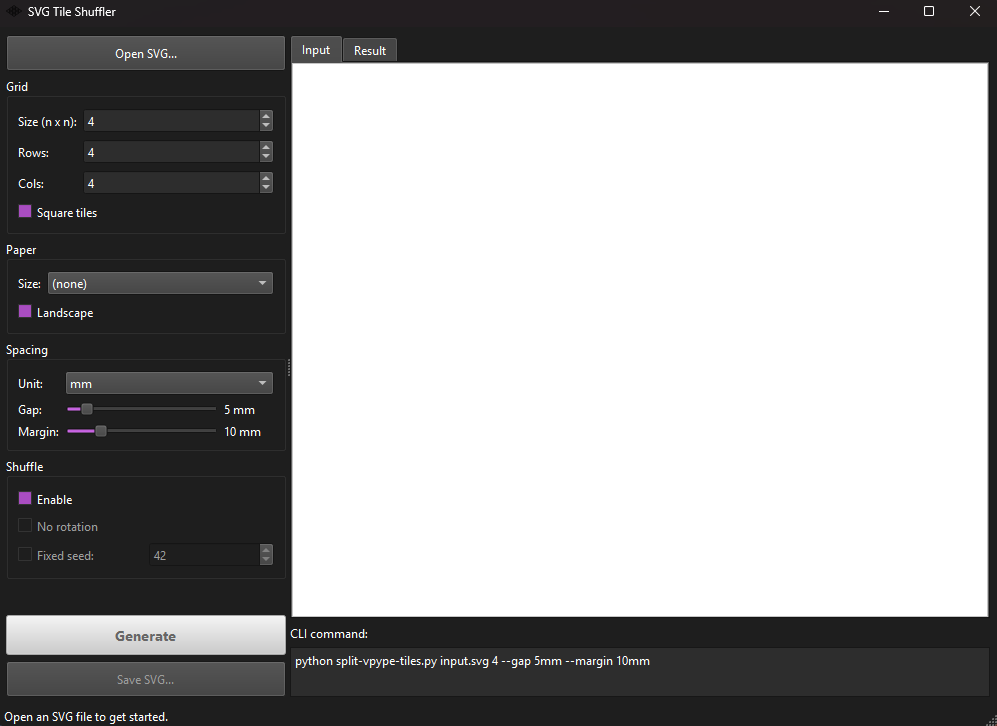
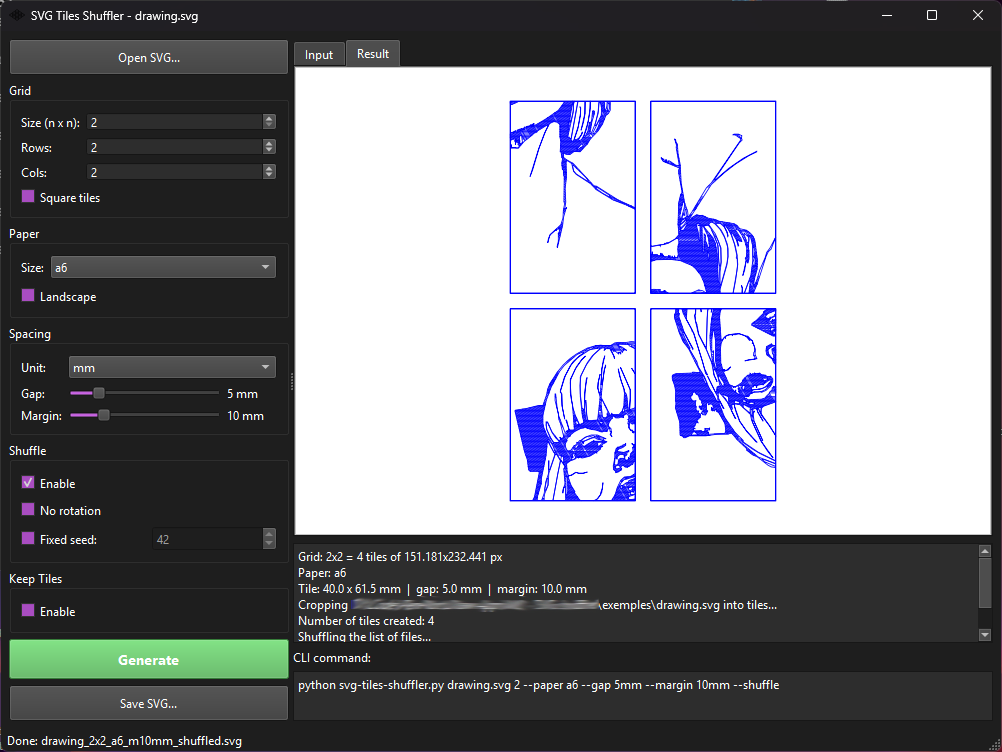
[CHG] Fix typo in application title and update screenshot

diff --git a/UI_app.py b/UI_app.py
@@ -1,4 +1,4 @@
-"""SVG Tile Shuffler - PySide6 Desktop App."""
+"""SVG Tiles Shuffler - PySide6 Desktop App."""
 
 import sys
 import subprocess
@@ -109,7 +109,7 @@ class SvgPreview(QGraphicsView):
 class MainWindow(QMainWindow):
     def __init__(self):
         super().__init__()
-        self.setWindowTitle("SVG Tile Shuffler")
+        self.setWindowTitle("SVG Tiles Shuffler")
         self.setMinimumSize(1000, 700)
         self.setAcceptDrops(True)
 
@@ -345,7 +345,7 @@ class MainWindow(QMainWindow):
         self.tabs.setCurrentIndex(0)
         self.btn_generate.setEnabled(True)
         self.statusBar().showMessage(f"Loaded: {self.input_path.name}")
-        self.setWindowTitle(f"SVG Tile Shuffler - {self.input_path.name}")
+        self.setWindowTitle(f"SVG Tiles Shuffler - {self.input_path.name}")
         self._update_command_preview()
 
     def _on_unit_changed(self, unit):
